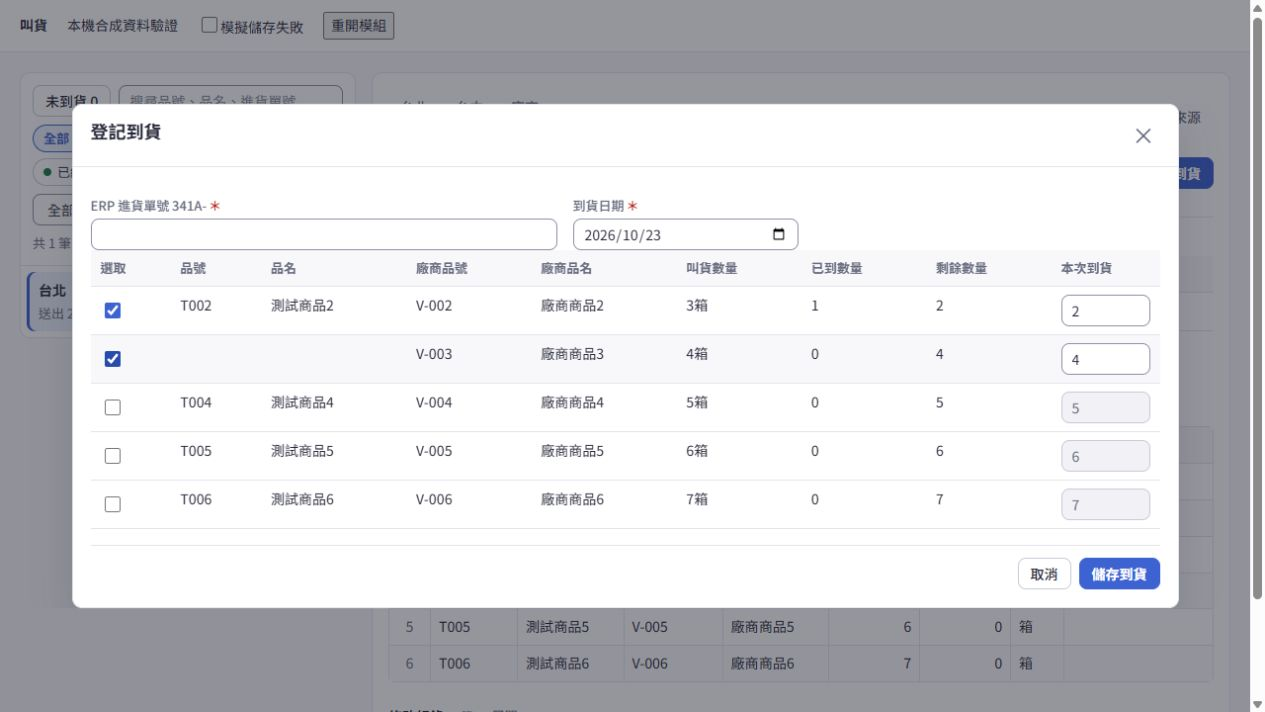
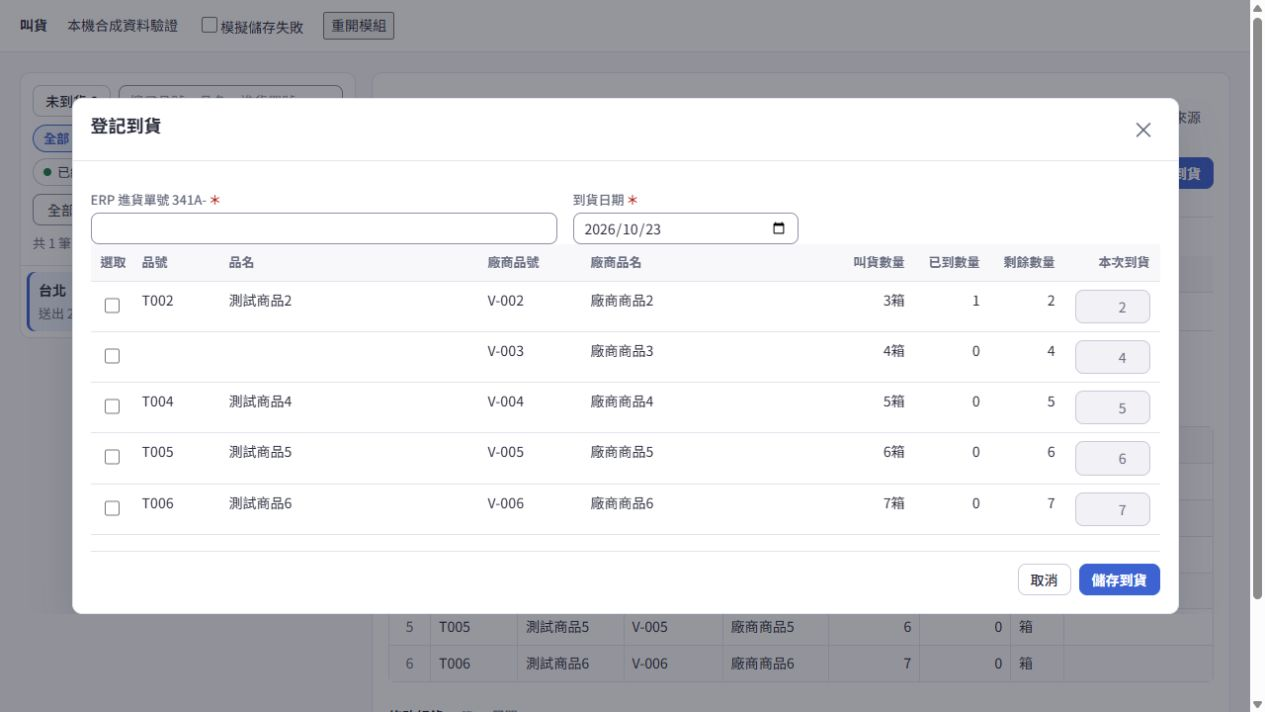
V0.9.32 Build 1: widen receipt names and compact quantity columns

diff --git a/src/runtime/modules/OrderingPage.tsx b/src/runtime/modules/OrderingPage.tsx
@@ -376,7 +376,9 @@ export function OrderingPage(){
    <Field label="到貨日期" size="s" required><input className="cy-op-input" type="date" max="9999-12-31" value={receipt.date} onChange={e=>setReceipt(v=>v?{...v,date:e.target.value}:v)}/></Field>
     </FormSection>
    <RequiredRows label="至少選擇一項到貨品項" satisfied={receipt.selectedLineIds.length>0}/>
-   <div className="cy-op-table-wrap" role="region" aria-label="登記到貨品項" tabIndex={0}><table className="cy-op-table cy-ordering-receipt-table"><thead><tr><th scope="col">選取</th><th scope="col">品號</th><th scope="col">品名</th><th scope="col">廠商品號</th><th scope="col">廠商品名</th><th scope="col">叫貨數量</th><th scope="col">已到數量</th><th scope="col">剩餘數量</th><th scope="col">本次到貨</th></tr></thead><tbody>
+   <div className="cy-op-table-wrap" role="region" aria-label="登記到貨品項" tabIndex={0}><table className="cy-op-table cy-ordering-receipt-table">
+    <colgroup><col className="cy-ordering-receipt-col-select"/><col className="cy-ordering-receipt-col-code"/><col/><col className="cy-ordering-receipt-col-vendor-code"/><col/><col className="cy-ordering-receipt-col-quantity"/><col className="cy-ordering-receipt-col-quantity"/><col className="cy-ordering-receipt-col-quantity"/><col className="cy-ordering-receipt-col-input"/></colgroup>
+    <thead><tr><th scope="col">選取</th><th scope="col">品號</th><th scope="col">品名</th><th scope="col">廠商品號</th><th scope="col">廠商品名</th><th scope="col">叫貨數量</th><th scope="col">已到數量</th><th scope="col">剩餘數量</th><th scope="col">本次到貨</th></tr></thead><tbody>
     {selected.lines.filter(l=>l.quantity!==null&&l.received<l.quantity&&!l.closedAs).map((l,i)=>{const remaining=(l.quantity??0)-l.received,checked=receipt.selectedLineIds.includes(l.id);return <tr key={l.id}>
      <td><CheckField label={<span className="cy-ordering-visually-hidden">選取第 {i+1} 項 {l.itemName||l.vendorItemName}</span>} checked={checked} onChange={e=>setReceipt(v=>v?{...v,selectedLineIds:e.target.checked?[...v.selectedLineIds,l.id]:v.selectedLineIds.filter(id=>id!==l.id)}:v)}/></td>
      <td className="cy-mono">{l.itemCode}</td><td>{l.itemName}</td><td className="cy-mono">{l.vendorItemCode}</td><td>{l.vendorItemName}</td><td>{l.quantity}{l.unit}</td><td>{l.received}</td><td>{remaining}</td>

diff --git a/src/runtime/modules/erp-item-query.css b/src/runtime/modules/erp-item-query.css
@@ -159,11 +159,18 @@
 .cy-ordering-order-summary { display: flex; flex-wrap: wrap; gap: 12px 32px; margin: 12px 0; }
 .cy-ordering-order-summary dt { font-size: var(--cy-fs-sm); color: var(--cy-text-muted); }
 .cy-ordering-order-summary dd { margin: 4px 0 0; white-space: pre-wrap; overflow-wrap: anywhere; }
-.cy-ordering-receipt-table { min-width: 900px; }
+.cy-ordering-receipt-table { table-layout: fixed; min-width: 900px; }
 .cy-dialog.cy-ordering-receipt-dialog .cy-dialog-surface { width: min(1120px, calc(100vw - 32px)); }
 .cy-ordering-receipt-table th { white-space: nowrap; }
 .cy-ordering-receipt-table .cy-f,.cy-ordering-receipt-table .cy-f-check { margin: 0; }
-.cy-ordering-receipt-table td:last-child { width: 110px; }
+.cy-ordering-receipt-col-select { width: 42px; }
+.cy-ordering-receipt-col-code { width: 88px; }
+.cy-ordering-receipt-col-vendor-code { width: 104px; }
+.cy-ordering-receipt-col-quantity { width: 76px; }
+.cy-ordering-receipt-col-input { width: 96px; }
+.cy-ordering-receipt-table th,.cy-ordering-receipt-table td { padding: 7px 8px; overflow-wrap: anywhere; }
+.cy-ordering-receipt-table th:nth-child(n+6),.cy-ordering-receipt-table td:nth-child(n+6) { text-align: right; font-variant-numeric: tabular-nums; }
+.cy-ordering-receipt-table .cy-op-input { min-width: 0; padding: 6px 8px; text-align: right; }
 .cy-ordering-receipt-table .cy-f-label,.cy-ordering-visually-hidden { position: absolute; width: 1px; height: 1px; padding: 0; margin: -1px; overflow: hidden; clip-path: inset(50%); white-space: nowrap; }
 .cy-ordering-save-state { display: inline-flex; align-items: center; gap: 5px; vertical-align: baseline; }
 .cy-ordering-save-state[data-state="failed"] { color: var(--cy-danger); font-weight: 600; }

diff --git a/docs/handoff/CYWEB_ORDERING_AUTOSAVE_HANDOFF.md b/docs/handoff/CYWEB_ORDERING_AUTOSAVE_HANDOFF.md
@@ -2,9 +2,9 @@
 
 更新日期：2026-10-23。此文件依使用者「專案主要由 Claude 處理，必須開 handoff 註明修改」要求建立。這是直接交辦修正的交接紀錄；共通規則仍以既有治理鏈為準。維護狀態入口為根目錄 `TODO.md`。
 
-## 最新修改：V0.9.32 — 到貨表格、合併狀態與送出唯讀（2026-10-23）
+## 最新修改：V0.9.32 Build 1 — 到貨表格、合併狀態與送出唯讀（2026-10-23）
 
-使用者在前一輪到貨故障正式驗收完成後，另行交辦本項介面／流程調整，故 Patch 升至 0.9.32、Build 歸零。不是 0.9.31 GLOB 修正返修。此節只代表本輪 source；尚未正式發布時，線上仍為下方已驗收的 V0.9.31 Build 1。
+使用者在前一輪到貨故障正式驗收完成後，另行交辦本項介面／流程調整，故 Patch 升至 0.9.32。第一次交付後依使用者回饋加寬品名／廠商品名，三個數量欄各 76px、本次到貨 96px，剩餘寬度分配給兩個品名欄；同一項返修 Build 增為 1。不是 0.9.31 GLOB 修正返修。使用者已明確授權本輪合併並部署原網站；實際部署結果須以收尾紀錄為準。
 
 - `OrderingPage.tsx`：到貨 Dialog 改用共用表格樣式、Field／CheckField／RequiredRows；表頭只有單號與原生日期，品項逐列顯示。勾選者可輸入數量，預設剩餘量；由 selected IDs 產生完整多列 payload，防止選了顯示預設值卻未實際放入 quantities map 的品項遺漏，0／無效數量明確中文拒絕。
 - 有紀錄的「到貨紀錄」移到單據標題後最上方；空的完全不渲染。獨立到貨狀態表取消，`OrderingGrid` 同一表加入已到數量；全到綠勾／部分到黃色三角驚嘆號位於數量格，附中文 aria-label／tooltip。結掉原因保留顯示，結掉剩餘仍從未到貨清單操作。

diff --git a/TODO.md b/TODO.md
@@ -1,4 +1,4 @@
-## CY Web V0.9.32 — 到貨表格與送出後唯讀（2026-10-23）
+## CY Web V0.9.32 Build 1 — 到貨表格與送出後唯讀（2026-10-23）
 
 - [x] 登記到貨改用表格，多選品項後填本次到貨；沿用共用 Dialog／欄位／必選列及 Enter、原生日期規則。
 - [x] 有到貨紀錄時置頂，無資料隱藏；到貨狀態併入明細，新增已到數量、全到綠勾／部分到黃色警告圖示。
@@ -6,7 +6,8 @@
 - [x] 送出後表頭／明細皆唯讀，無尾列及刪除欄；後端同步拒絕修改／新增／刪除，保留到貨、結掉剩餘及作廢的原專用流程。
 - [x] 給 Claude 的原 [handoff](docs/handoff/CYWEB_ORDERING_AUTOSAVE_HANDOFF.md) 補範圍、改動、合成畫面與驗證證據；無 migration。
 - [x] 本機 52 項叫貨／路由／表單回歸、typecheck／build 及 validate:source 通過；實際瀏覽器完成唯讀、勾選數量與空尾列 Enter 核對。
-- [ ] Claude 審查與受控正式發布；必要 CI 狀態見本輪 PR。本輪尚未部署，不以本機合成畫面宣稱正式站已更新。
+- [x] 依使用者回饋加寬兩個品名欄，叫貨／已到／剩餘數量與本次到貨縮為緊湊固定寬度；Build 1，沿用同一 PR。
+- [ ] 使用者已批准合併並部署；等待更新後必要 CI 通過，再走既有正式流程並補實際結果。
 
 ## CY Web V0.9.31 Build 1 — 到貨修正已部署並完成正式驗收（2026-10-23）
 
